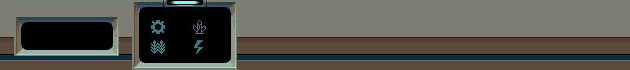
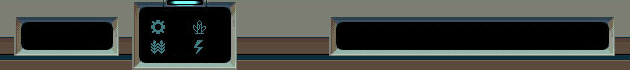
created area for prompt text

Changed region(s): [[0.5127, 0.2286, 0.9952, 0.8]]

diff --git a/src/main/java/game/round/LandGrantRound.java b/src/main/java/game/round/LandGrantRound.java
@@ -67,8 +67,8 @@ public class LandGrantRound extends Round
 		}
 		                
 		prompt = new StringRender();
-		prompt.setX(400);
-		prompt.setY(400);
+		prompt.setX(350);
+		prompt.setY(390);
 		prompt.setColor(Color.WHITE);
 		
 		passButton = new Button("assets/images/passButton.png");
@@ -241,17 +241,17 @@ public class LandGrantRound extends Round
 		StringRender money = new StringRender("$" + session.getPlayerMoney(id), 240, 410, Color.WHITE);
 		stringRenders.add(money);
 
-		StringRender ore = new StringRender("" + session.getPlayerOre(id), 140, 415, Color.WHITE);
+		StringRender ore = new StringRender("" + session.getPlayerOre(id), 170, 382, Color.WHITE);
 		stringRenders.add(ore);
 
-		StringRender food = new StringRender("" + session.getPlayerFood(id), 20, 415, Color.WHITE);
+		StringRender food = new StringRender("" + session.getPlayerFood(id), 170, 402, Color.WHITE);
 		stringRenders.add(food);
 
-		StringRender energy = new StringRender("" + session.getPlayerEnergy(id), 80, 415, Color.WHITE);
-		stringRenders.add(energy);
-
-		StringRender crystite = new StringRender("" + session.getPlayerCrystite(id), 200, 415, Color.WHITE);
+		StringRender crystite = new StringRender("" + session.getPlayerCrystite(id), 210, 382, Color.WHITE);
 		stringRenders.add(crystite);
+
+		StringRender energy = new StringRender("" + session.getPlayerEnergy(id), 210, 402, Color.WHITE);
+		stringRenders.add(energy);
 	}
 
 	/**

diff --git a/src/main/java/game/round/DevelopmentRound.java b/src/main/java/game/round/DevelopmentRound.java
@@ -14,9 +14,7 @@ import ui.render.StringRender;
 import core.Keyboard;
 
 /**
- * The DevelopmentRound is the part of the game where the users can buy land and interact with the land.
- *
- * @author Matt
+ * The DevelopmentRound is the part of the game where the users can buy land and interact with the land
  */
 public class DevelopmentRound extends Round
 {	
